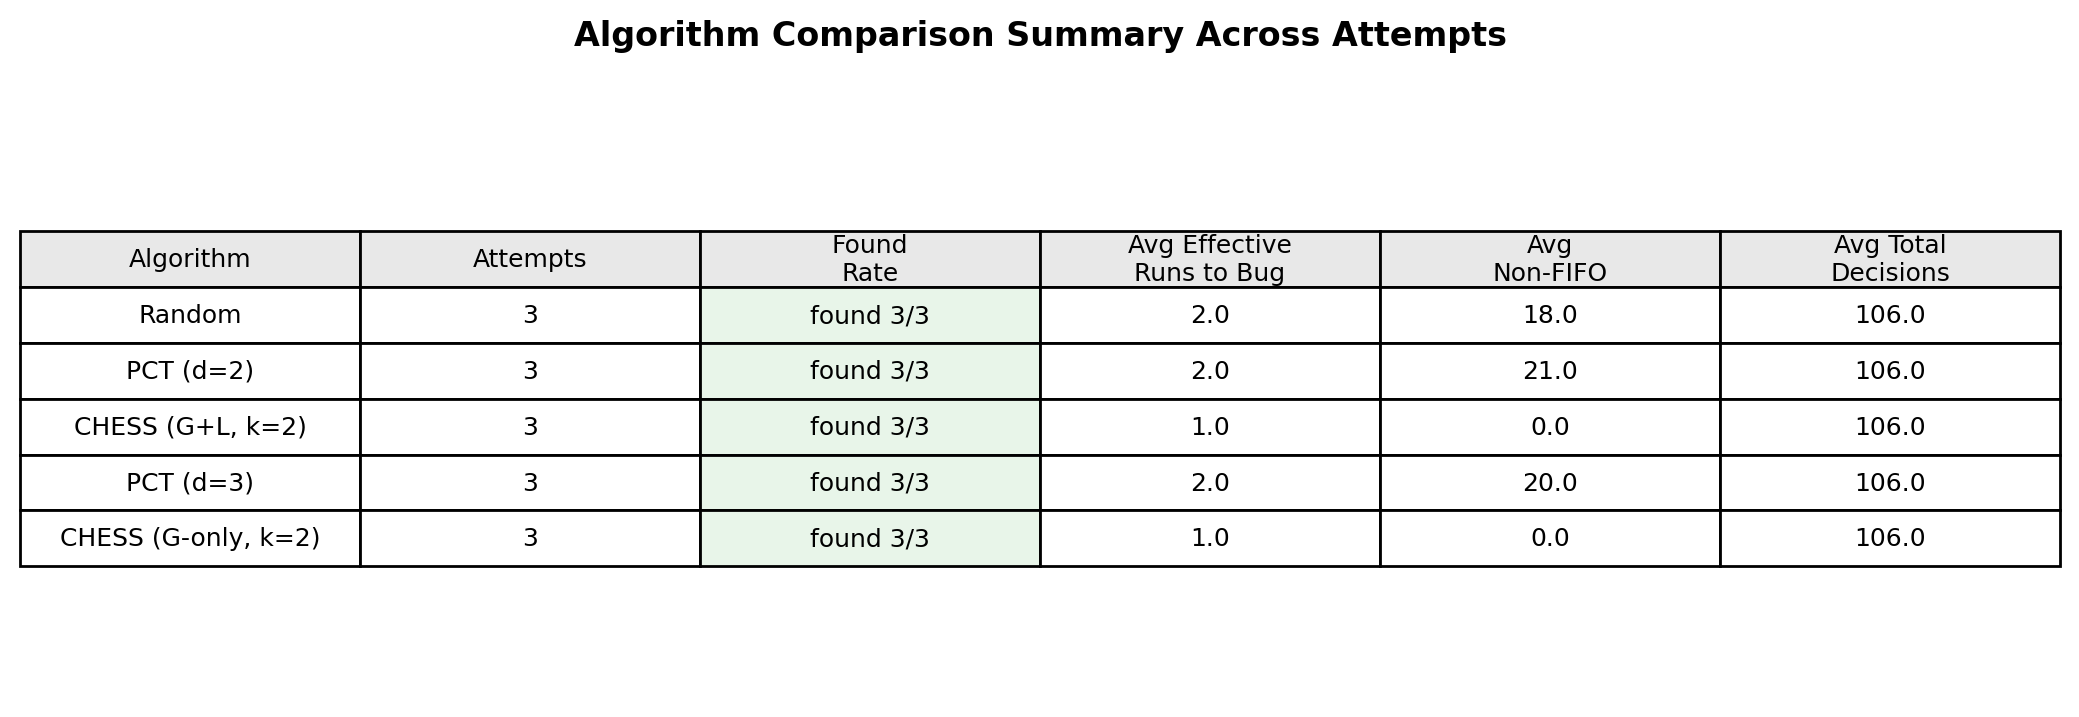
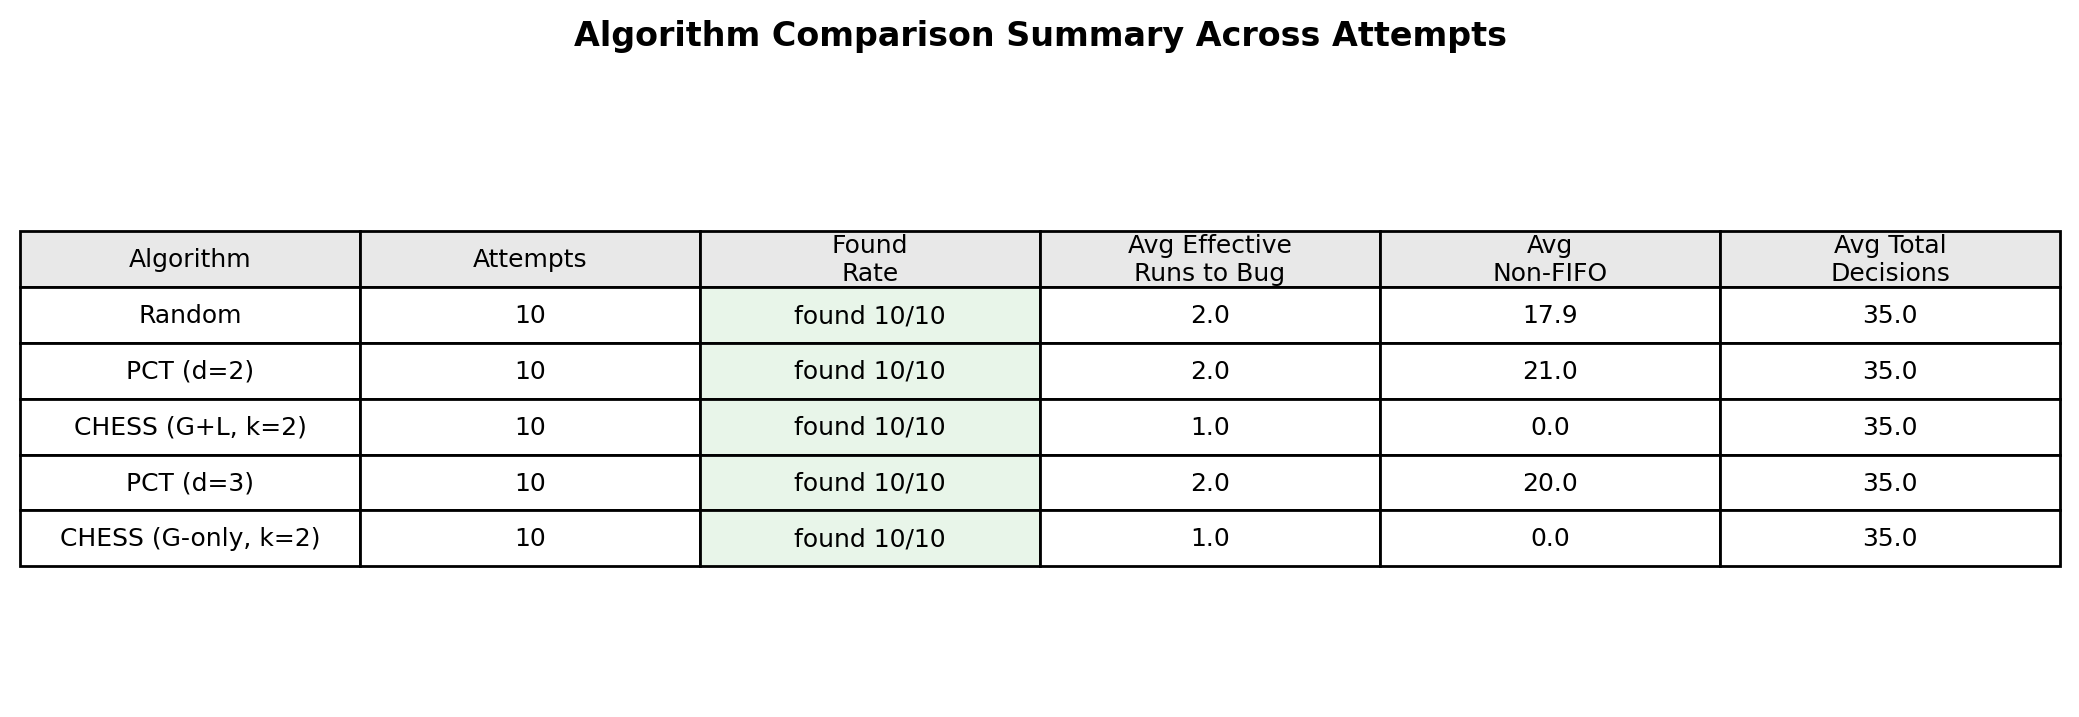
new data

diff --git a/orchestrator/metrics.go b/orchestrator/metrics.go
@@ -80,7 +80,7 @@ func NewJSONLObserver(w io.Writer, policy string) RunObserver {
 			RunNum:         runNum,
 			NonFIFO:        nonFIFO,
 			ElapsedNs:      elapsed.Nanoseconds(),
-			TotalDecisions: len(rr.Trace),
+			TotalDecisions: 0,
 			Passed:         passed,
 			UserFailed:     rr.UserFailed,
 		}
@@ -112,6 +112,7 @@ func NewJSONLObserver(w io.Writer, policy string) RunObserver {
 				localStepIdx++
 			}
 		}
+		r.TotalDecisions = r.GlobalDecisionCount + r.LocalDecisionTotal
 
 		// Build local trace detail if requested.
 		if includeLocalTrace(passed) {
